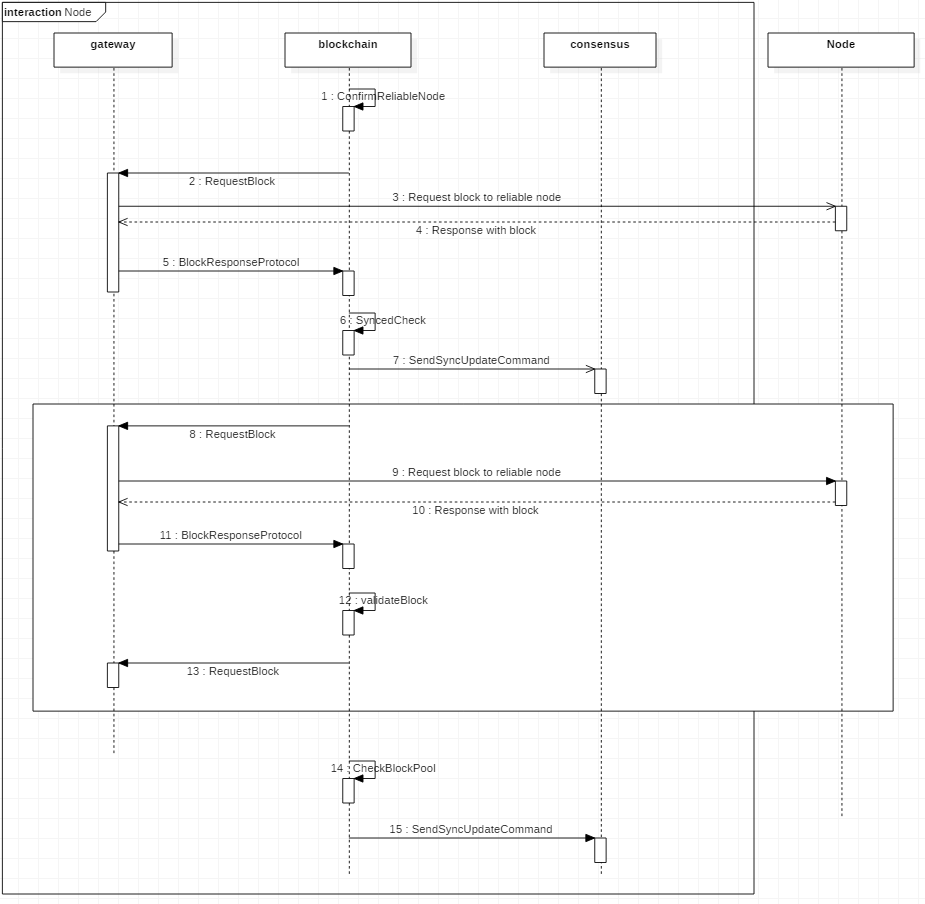
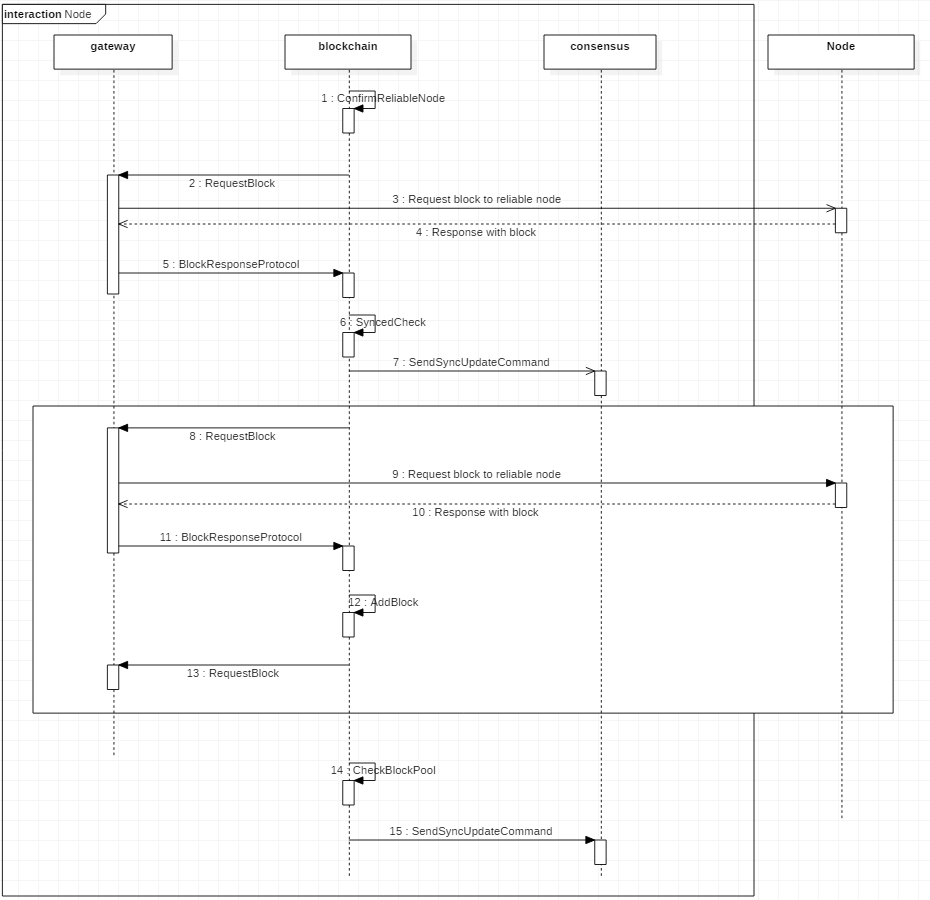
update implementation details

Changed region(s): [[0.0, 0.0, 0.9989, 1.0]]

diff --git a/blockchain/PROJECT-IMPLEMENTATION-DETAILS-KR.md b/blockchain/PROJECT-IMPLEMENTATION-DETAILS-KR.md
@@ -59,7 +59,7 @@
 | block_number      | BlockNumber    | Block Hash                   | 블록 번호를 이용하여 블록 저장             |
 | transaction       | Transaction ID | Serialized Transaction       | 트랜잭션 저장                             |
 | unconfirmed_block | BlockHash      | Serialized unconfirmed block | 확정되지 않은 블록 저장                    |
-| util              | Predefined Key | Depends on Key               | 여러 용도를 위한 DB                        |  
+| util              | Predefined Key | Depends on Key               | 여러 용도를 위한 DB                        |
 
 - util DB
 
@@ -88,3 +88,63 @@
 
 [@emperorhan](https://github.com/emperorhan)
 [@zeroFruit](https://github.com/zeroFruit)
+
+
+
+## 블록체인 동기화
+
+![blockchain-blocksync-seq](../images/blockchain-blocksync-implementation-seq.png)
+
+동기화(Synchronize)는 확인(Check), 구축(Construct), 재구축(PostConstruct)의 과정을 거친다. 
+
+먼저 확인(Check)은 (1) '신뢰할 수 있는 노드'(Reliable Node) 선정과 (2) '상태 점검'을 거친다. Reliable Node를 선정하기 위해서 blockchain 컴포넌트는 *'Reliable Node 후보 저장'* 과정을 통해서 Reliable Node 후보들을 가지고 있다. 선정 방법은 후보들의 blockchain height와 lastSeal의 비교를 통해서 정하게 된다. 똑같은 height와 lastSeal이 후보들 중 1/3 이상이 나오게 되면 그 height와 lastSeal을 가진 Node가 Reliable Node가 된다. Reliable Node가 정해지면 자신의 blockchain height와 lastSeal을 비교해서 같은지를 확인한다. 같다면 동기화(Synchronize)는 중단되고 그렇지 않다면 구축(Construct) 단계로 넘어간다.
+
+구축(Construct)단계에서는 Reliable Node를 대상으로 RequestBlock을 통해 block을 요청하고 BlockResponseProtocol로 요청한 block을 받게된다. AddBlock에서는 추가할 블록이 다음 블록이 맞는지 확인하고 chain에 추가하게된다. 그리고 위 과정은 구축 단계 시작할 때의 Reliable Node blockchain을 모두 가져올 때 까지 진행된다. 즉 구축 단계 시작 이후로 Reliable Node가 쌓은 block들은 추가하지 않는다. 이런 구축 단계 이후 합의를 통해 확정된 block들은 BlockPool에 저장하게된다. 우선 블록을 요청하고, 응답 받고,  chain에 추가하는 과정은 동기적으로 진행된다. (block을 요청하고, chain에 추가하는 두 가지 과정을 Producer-Consumer 패턴으로 구현해도 괜찮을 것 같다.)
+
+블록 요청(RequestBlock)은 특정 노드의 blockchain height를 이용해, Reliable Node에 block을 요청하게된다. 특정 노드가 새로 참여하는 노드일 경우 신뢰할 수 있는 노드의 블록 체인 내 최초 블록부터 마지막 블록까지 요청하고, 기존에 참여중이던 노드일 경우 보유 중인 블록 체인 내 마지막 블록의 다음 블록부터 신뢰할 수 있는 노드의 블록 체인 내 마지막 블록까지 요청한다.
+
+위에서 말했듯이 구축(Construct) 진행 중에 새롭게 합의되는 블록을 임시 저장소(BlockPool)에 보관한다. 구축(Construct)단계가 완료되고 나면, BlockPool에 block이 있는지 확인한다. block이 있다면 재구축(PostConstruct)을 수행한다.
+
+재구축(PostConstruct)은 이미 구축(Construct)된 블록 체인에 블록 임시 저장소(BlockFool)에 보관중인 블록들을 부수적으로 추가(BlockAddedEvent)하는 것을 의미한다. 재구축(PostConstrcut)을 수행하고 나면, 동기화(Synchronize) 과정이 모두 완료된다.
+
+
+
+ 
+
+### Reliable Node 후보 저장
+
+![blockchain-reliablenode-seq](../images/blockchain-reliablenode-implementation-seq.png)
+
+
+동기화(Synchronize)는 확인(Check), 구축(Construct), 재구축(PostConstruct)의 과정을 거친다.
+
+먼저 확인(Check)은 (1) '신뢰할 수 있는 노드'(Reliable Node) 선정과 (2) '상태 점검'을 거친다. Reliable Node를 선정하기 위해서 blockchain 컴포넌트는 'Reliable Node 후보 저장' 과정을 통해서 Reliable Node 후보들을 가지고 있다. 선정 방법은 후보들이 가진 마지막 block의 height와 lastSeal의 비교를 하는 것이다. 똑같은 height와 lastSeal이 후보들 중 1/3 이상이 나오게 되면 그 height와 lastSeal을 가진 Node가 Reliable Node가 된다. Reliable Node가 정해지면 자신의 마지막 block의 height와 lastSeal을 비교해서 같은지를 확인한다. 같다면 동기화(Synchronize)는 중단되고 그렇지 않다면 구축(Construct) 단계로 넘어간다.
+
+구축(Construct)단계에서는 Reliable Node를 대상으로 RequestBlock을 통해 block을 요청하고 BlockResponseProtocol로 응답받은 block을 받게된다. AddBlock에서는 추가할 블록이 다음 블록이 맞는지 확인하고 blockchain에 추가하게된다. 그리고 위 과정은 구축 단계 시작할 때의 Reliable Node의 blockchain을 모두 가져올 때 까지 진행된다. 즉 구축 단계 시작 이후로 Reliable Node가 쌓은 block들은 추가하지 않는다. 이런 구축 단계 이후 합의를 통해 확정된 block들은 BlockPool에 보관하게된다. 블록을 요청하고, 응답 받고,  blockchain에 추가하는 과정은 동기적으로 진행된다.(block을 요청하고, blockchain에 추가하는 두 가지 프로세스를 Producer-Consumer 패턴으로 구현하는 것도 하나의 방법이 될 수 있다.)
+
+블록 요청(RequestBlock)은 특정 노드가 가진 마지막 block의 height를 이용해, Reliable Node에 block을 요청하게된다. 특정 노드가 새로 참여하는 노드일 경우 신뢰할 수 있는 노드의 블록 체인 내 최초 블록부터 마지막 블록까지 요청하고, 기존에 참여중이던 노드일 경우 보유 중인 블록 체인 내 마지막 블록의 다음 블록부터 신뢰할 수 있는 노드의 블록 체인 내 마지막 블록까지 요청한다.
+
+구축(Construct)단계가 완료되고 나면, BlockPool에 block이 있는지 확인한다. block이 있다면 재구축(PostConstruct)을 수행한다. 재구축(PostConstruct)은 이미 구축(Construct)된 블록 체인에 블록 임시 저장소(BlockFool)에 보관중인 블록들을 부수적으로 추가(BlockAddedEvent)하는 것을 의미한다. 재구축(PostConstrcut)을 수행하고 나면, 동기화(Synchronize) 과정이 모두 완료된다.
+
+
+### 예외 사항 처리
+
+* 동기화 중일 때는 합의에 참여하지 못하지만, 리더로부터 합의 된 블록은 받을 수 있다. 받은 블록은 BlockPool에 저장되고, 구축(Construct)단계가 끝나면 추가하게 된다.
+* 구축(Construct) 과정은 긴 시간이 걸릴 수 있기 때문에 구축과정 중간에 네트워크 연결이 끊겨버리는 문제를 생각해야 한다.: (1) 자기 자신과 네트워크 사이에서 연결이 끊긴 경우와 (2) Reliable Node가 네트워크와 연결이 끊긴 경우가 있을 수 있다.
+  1. **자기 자신과 네트워크 사이에서 연결이 끊긴 경우,** 다시 연결이 되었을 때, 동기화 과정을 다시 시작하면 된다. 예를 들어 생각해보면, Reliable Node로부터 101번 block부터 10000번 block을 하나씩 받고 있는 도중 500번 block을 받고 연결이 끊겨버렸다. 그러면 다시 연결이 되었을 때, Reliable Node를 다시 선정해서 501번째 block부터 다시 받기 시작하면 된다.
+  2. **Reliable Node가 네트워크와 연결이 끊긴 경우,** 마찬가지로 동기화 과정을 처음부터 시작하면 된다. 다시 Reliable Node를 선정하고 나의 마지막 block의 다음 block부터 요청한다.
+
+
+
+### Reliable Node 후보 저장
+
+blockchain 컴포넌트는 동기화를 할 때 Reliable Node 선정을 위해서 Reliable Node 후보들을 가지고 있어야한다.
+
+Reliable Node 후보들은 다음과 같은 방식으로 유지된다. blockchain은 자신의 Reliable Node 상태(노드의 갯수, IDs)를 알리는 NodeUpdateEvent를 전파한다. 그리고 p2p에서는 Reliable Node들이 특정 개수보다 모자라다면 필요한 양만큼 Reliable Node 후보들을 충당할 수 있는 NodeUpdateCommand를 Command Service에서 보내게된다. 그리고 blockchain에서는 Command Handler에서 command를 받은 후, 특정 개수의 unique한 Reliable Node들을 유지하게 된다.
+
+네트워크에서 노드들의 상태가 변화했을 때, p2p에서는 변화한 노드들의 event를 전파하게된다. blockchain에서는 Event Handler에서 event를 받아 변화한 노드들이 현재 Reliable Node 후보 중에 있는지 확인하고 없으면 그대로 지나가게 되지만 있다면 해당 노드를 후보 리스트에서 삭제하고 NodeUpdateEvent를 다시 전파하게된다.
+
+### Author
+
+[@zeroFruit](https://github.com/zeroFruit)
+[@junk-sound](https://github.com/junk-sound)
